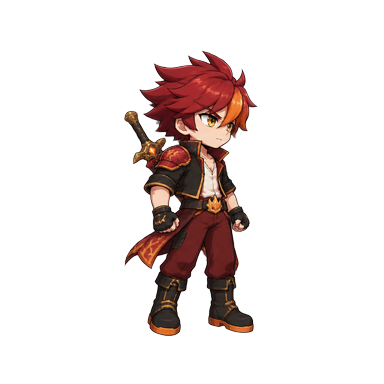
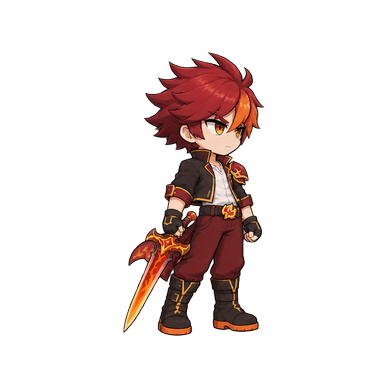
Art: Enkiba idle frames (AI)

Changed region(s): [[0.3125, 0.125, 0.6875, 0.875]]

diff --git a/docs/DEVELOPMENT_LOG.md b/docs/DEVELOPMENT_LOG.md
@@ -930,3 +930,14 @@ Các giá trị Q1–Q6 là **tuning trong data**, không sửa `CHARACTER_SKILL
 - **Kết quả thật:** GdUnit4 446/446, 5 test khói đạt, mã thoát 0.
 - **Quyết định Claude chọn:** hạ kiếm xuống bên người ở cuối `skill_2` thay cho "tra kiếm nửa chừng" của CHARACTER_SKILLS (không sửa tài liệu thiết kế); cách cầm lấy từ ảnh gốc (tay gần camera, mũi kiếm hạ xuống trước).
 - **Hạn chế đã biết:** ảnh gốc là 3/4 nên cách cầm kiếm ở góc nhìn ngang do Codex suy ra; kiếm cầm tay che một phần chân / thân ở nhiều pose, cần soát thứ tự lớp khi duyệt; idle trong game tạm thời vẫn là bản kiếm đeo lưng.
+
+## 2026-11-13 — Art: Enkiba idle frames (AI)
+
+- **Milestone / task:** art pipeline — tạo và duyệt animation `idle` cho `char_fire_01`, chỉ một animation.
+- **Trạng thái:** TESTED (owner duyệt preview; kiểm tra frame và toàn bộ test đạt).
+- **Owner duyệt:** "ok rồi thêm vào dự án nhé" sau khi xem `sheet.png`, `anim.gif` và `anim_flip.gif`.
+- **File tạo/sửa:** 6 frame `assets/characters/char_fire_01/frames/idle/char_fire_01_idle_000..005.png` và sidecar `.import`; `assets/characters/char_fire_01/frames_manifest.json` (6 frame, 8 fps, loop); `docs/ASSET_LICENSES.md` mục 2.1; `art_review/char_fire_01/idle/meta.json` (ngày duyệt); bản idle cũ được giữ tại `art_review/char_fire_01/_replaced/idle_20261113_183648/`.
+- **Đã chạy:** `check_frames.py char_fire_01 idle` → ĐẠT; `approve_frames.py char_fire_01 idle --replace`; `powershell -ExecutionPolicy Bypass -File tools\run_tests.ps1` (chạy lại ngoài sandbox sau khi Godot crash ở lần chạy sandbox).
+- **Kết quả thật:** Đưa vào game 6 frame; GdUnit4 446/446, 5 smoke checks đều đạt, tổng mã thoát 0. Bản idle cũ được chuyển sang `_replaced/` thay vì xóa.
+- **Quyết định Codex chọn:** dùng một dải sáu pose duy nhất, giữ kiếm rút trên tay ở cả sáu frame; metadata và giấy phép ghi model là "not exposed by the imagegen tool" vì công cụ không cung cấp tên model.
+- **Hạn chế đã biết:** owner duyệt bản preview, chưa xác nhận trực tiếp trong Godot; tên model tạo ảnh không được công cụ imagegen expose.

diff --git a/docs/ASSET_LICENSES.md b/docs/ASSET_LICENSES.md
@@ -39,7 +39,7 @@ tạo ảnh với tài khoản owner. Phải khai báo nội dung AI khi phát h
 
 | File | Công cụ / model | Prompt (rút gọn) | Ảnh tham chiếu | Người tạo | Ngày |
 |---|---|---|---|---|---|
-| `assets/characters/char_fire_01/frames/idle/` (6 frame) — Enkiba | Owner cung cấp (công cụ tạo ảnh không rõ) / không rõ | Owner cung cấp dải 6 pose idle; không kèm prompt. Ảnh chưa qua Codex. | `char_fire_01_portrait_full.png` | Owner cung cấp | 2026-11-13 |
+| `assets/characters/char_fire_01/frames/idle/` (6 frame) — Enkiba | Codex imagegen / not exposed by the imagegen tool | One horizontal row of six seamless idle poses for owner-provided Enkiba; preserve original design and palette, facing right, drawn flame sword held low in the near hand in every pose, transparent background, no effects. | `char_fire_01_portrait_full.png`, `char_fire_01_part_44_weapon_kiem_lua.png`, `char_fire_01_idle_000.png`, `char_fire_01_idle_003.png` | Codex | 2026-11-13 |
 
 ## 3. Placeholder (không bao giờ ship)
 
